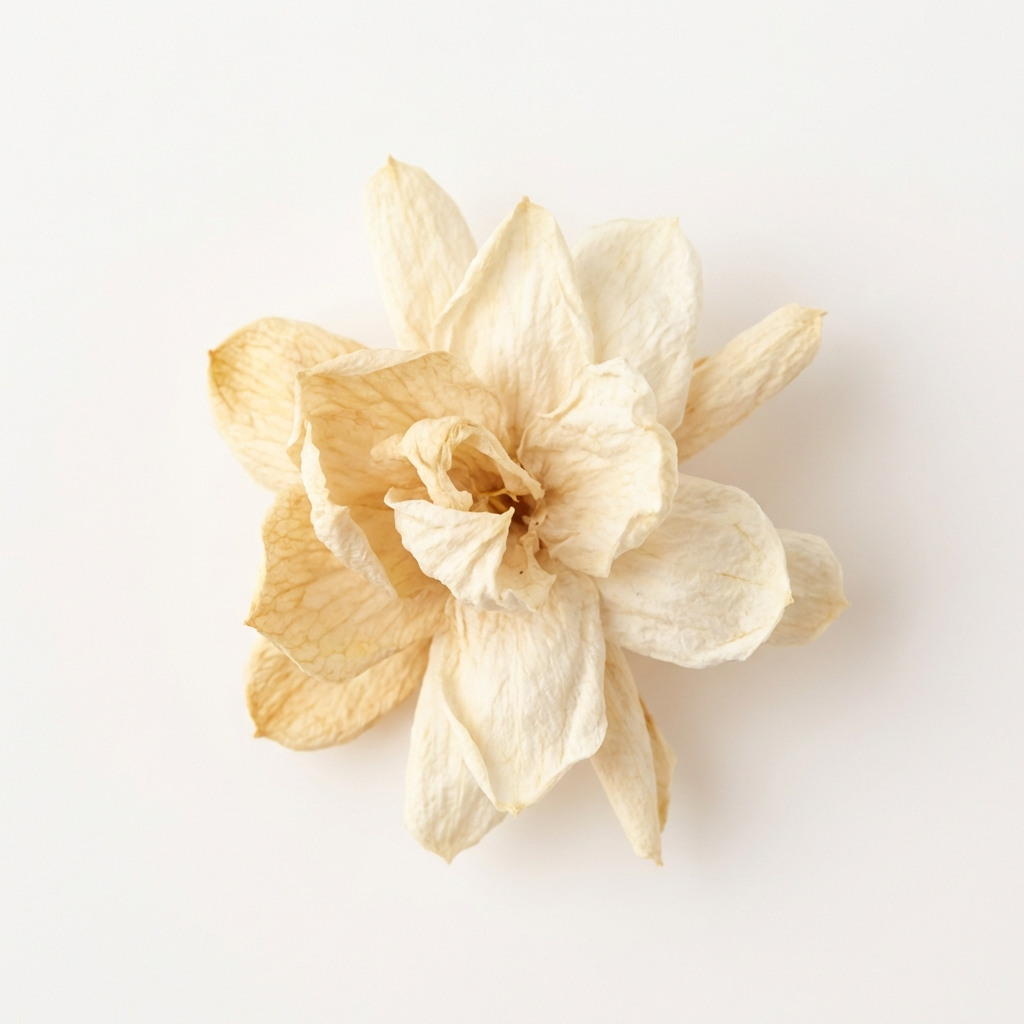
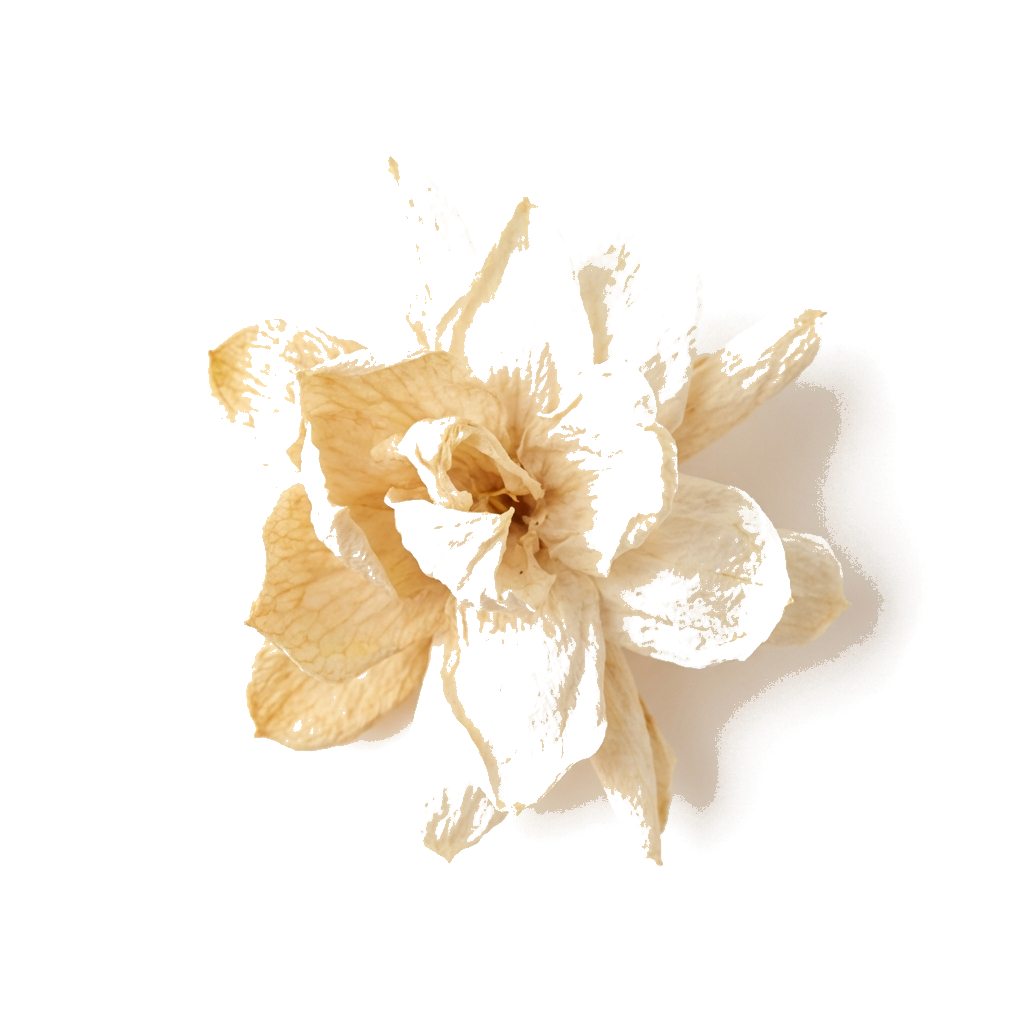
Hero: remove white background from flower PNGs, transparent petals

Changed region(s): [[0.1875, 0.1562, 1.0, 0.9375], [0.2188, 0.625, 0.2812, 0.6875]]

diff --git a/site/posts/yadon-ke-pannon-se.html b/site/posts/yadon-ke-pannon-se.html
@@ -1,6 +1,6 @@
 <!DOCTYPE html> <html lang="hi"> <head>   <meta charset="UTF-8">   <meta name="viewport" content="width=device-width, initial-scale=1.0">   <title>यादों के झरोखों से — गीतांजलि सक्सेना | हिंदी संस्मरण</title>   <meta name="description" content="यादों के झरोखों से — पिताजी की अनमोल विरासत और परिवार की यादें। गीतांजलि सक्सेना का भावपूर्ण हिंदी संस्मरण। Family tribute in Hindi.">   <link rel="preconnect" href="https://fonts.googleapis.com">   <link rel="preconnect" href="https://fonts.gstatic.com" crossorigin>   <link href="https://fonts.googleapis.com/css2?family=Tiro+Devanagari+Hindi:ital@0;1&family=Noto+Sans+Devanagari:wght@300;400;600&family=Cormorant+Garamond:ital,wght@0,400;0,600;1,400&display=swap" rel="stylesheet">   <style> *{margin:0;padding:0;box-sizing:border-box} :root{   --cream:#F7F2EA;--warm-white:#FDFAF5;--ink:#1C1410;   --red:#9B0E0E;--red-deep:#6B0A0A;--gold:#B8873A;   --gold-light:#D4A852;--dust:#8A7968;--petal:#F2E8DE; } html{scroll-behavior:smooth} body{font-family:'Noto Sans Devanagari',sans-serif;background:var(--warm-white);color:var(--ink);overflow-x:hidden}  /* NO letter-spacing on Devanagari - ever */ *[lang="hi"],.post-title,.post-cat,.post-meta,.nav-links a, .pline,.poem-author,.drop-cap-para,.prose-text,.pull-quote-text, .tag-item,.rel-title,.rel-cat,.author-name,.author-bio-text, .fcol ul a,.fbrand-text,.fs-label,.fs-input,.breadcrumb a, .breadcrumb span,.share-label,.pnav-title,.pnav-cat,.pnav-dir, .ctl-text,.pm-author-name,.pm-date,.pf-author,.pf-place, .sidebar-label,.abio-name,.abio-text,.abio-name-en, .author-bio-text,.author-name { letter-spacing:0 !important; }  /* NAV */ #mainNav{position:fixed;top:0;left:0;right:0;z-index:100;padding:18px 60px;display:flex;align-items:center;justify-content:space-between;transition:all 0.3s;background:transparent} #mainNav.scrolled{background:rgba(253,250,245,0.97);backdrop-filter:blur(10px);box-shadow:0 1px 20px rgba(0,0,0,0.06)} #mainNav.scrolled .nav-links a{color:var(--ink)} #mainNav.scrolled .nav-logo img{filter:none} .nav-logo{text-decoration:none;display:flex;align-items:center} .nav-logo img{height:52px;width:auto;filter:brightness(0) invert(1) drop-shadow(0 1px 6px rgba(0,0,0,0.4));transition:filter 0.3s} .nav-links{display:flex;gap:32px;list-style:none;align-items:center} .nav-links a{font-family:'Noto Sans Devanagari',sans-serif;font-size:14px;color:rgba(255,255,255,0.88);text-decoration:none;font-weight:400;transition:color 0.2s;text-shadow:0 1px 8px rgba(0,0,0,0.3)} .nav-links a:hover{color:var(--gold-light)} .nav-cta{background:var(--red)!important;color:white!important;padding:10px 22px;text-shadow:none!important;display:inline-flex;flex-direction:column;align-items:center;white-space:nowrap;line-height:1.2;min-width:0} .nav-cta:hover{background:var(--red-deep)!important;color:white!important}  /* POST HERO */ .post-hero{min-height:88vh;position:relative;overflow:hidden;display:flex;align-items:stretch;padding:0} .ph-bg{position:absolute;inset:0;background:linear-gradient(155deg,#0D1018 0%,#1A1A2A 40%,#120808 100%)} .ph-texture{position:absolute;inset:0;background:radial-gradient(ellipse 700px 600px at 30% 50%,rgba(184,135,58,0.18) 0%,transparent 60%),radial-gradient(ellipse 400px 300px at 80% 20%,rgba(155,14,14,0.08) 0%,transparent 60%);pointer-events:none} .ph-img{display:none} .ph-right{position:absolute;z-index:3;right:auto;left:50%;top:50%;transform:translateY(-50%);width:520px;display:flex;flex-direction:column;justify-content:center;align-items:center;gap:0}.ph-single-img{width:100%;border-radius:14px;overflow:hidden;box-shadow:0 28px 80px rgba(0,0,0,0.65);border:1px solid rgba(255,255,255,0.15);position:relative;animation:floatImg 6s ease-in-out infinite}.ph-single-img img{width:100%;height:680px;object-fit:cover;object-position:center;display:block;filter:brightness(0.92)}.ph-img-quote{position:absolute;bottom:0;left:0;right:0;padding:28px 24px;background:linear-gradient(to top,rgba(0,0,0,0.82) 0%,rgba(0,0,0,0.4) 60%,transparent 100%)}.ph-img-quote-text{font-family:"Tiro Devanagari Hindi",serif;font-size:17px;color:rgba(255,255,255,0.88);line-height:1.8;display:block;margin-bottom:8px}.ph-img-quote-attr{font-family:"Cormorant Garamond",serif;font-size:13px;color:rgba(184,135,58,0.85);font-style:italic;display:block}.ph-hero-quote{width:100%;border-left:3px solid rgba(184,135,58,0.5);padding:16px 20px;background:rgba(255,255,255,0.04);backdrop-filter:blur(4px);border-radius:0 6px 6px 0}.ph-hero-quote-text{font-family:"Tiro Devanagari Hindi",serif;font-size:18px;color:rgba(255,255,255,0.75);line-height:1.8;font-style:normal}.ph-hero-quote-attr{font-family:"Cormorant Garamond",serif;font-size:13px;color:rgba(184,135,58,0.7);font-style:italic;margin-top:10px;display:block}.ph-art{position:absolute;right:-20px;bottom:-40px;font-family:'Tiro Devanagari Hindi',serif;font-size:480px;color:rgba(255,255,255,0.06);line-height:1;pointer-events:none;user-select:none;z-index:1}.ph-deco{position:absolute;font-family:'Tiro Devanagari Hindi',serif;color:rgba(255,255,255,0.04);pointer-events:none;user-select:none;z-index:1;line-height:1} .ph-content{position:relative;z-index:3;flex:1;padding:80px 32px 80px 72px;display:flex;flex-direction:column;justify-content:center;max-width:50%;align-items:flex-start} .post-cat{display:inline-flex;align-items:center;gap:8px;background:var(--gold);color:white;font-size:13px;padding:6px 16px;font-family:'Noto Sans Devanagari',sans-serif;font-weight:600;margin-bottom:24px;align-self:flex-start;width:auto} .post-cat::before{content:'·';font-size:14px;opacity:0.7} .post-title{font-family:'Tiro Devanagari Hindi',serif;font-size:80px;color:white;line-height:1.1;font-weight:400;margin-bottom:16px;align-self:flex-start} .post-subtitle{font-family:'Cormorant Garamond',serif;font-size:22px;color:rgba(255,255,255,0.55);font-style:italic;margin-bottom:36px;align-items:center;gap:24px;flex-wrap:wrap}.ph-tagline{font-family:'Cormorant Garamond',serif;font-size:22px;color:rgba(255,255,255,0.55);font-style:italic;margin-bottom:28px;display:block} .pm-author{display:flex;align-items:center;gap:12px} .pm-author img{width:40px;height:40px;border-radius:50%;object-fit:cover;object-position:top;filter:sepia(10%);border:1px solid rgba(255,255,255,0.2)} .pm-author-name{font-family:'Noto Sans Devanagari',sans-serif;font-size:15px;color:rgba(255,255,255,0.75);font-weight:700} .pm-sep{width:4px;height:4px;border-radius:50%;background:rgba(255,255,255,0.2)} .pm-date{font-family:'Cormorant Garamond',serif;font-size:16px;color:rgba(255,255,255,0.4);font-style:italic} .pm-read{font-family:'Cormorant Garamond',serif;font-size:14px;color:rgba(255,255,255,0.35);font-style:italic}  /* BREADCRUMB */ .breadcrumb{background:var(--cream);padding:14px 80px;border-bottom:1px solid rgba(0,0,0,0.05);display:flex;align-items:center;gap:8px} .breadcrumb a,.breadcrumb span{font-family:'Noto Sans Devanagari',sans-serif;font-size:13px;color:#1C1410;text-decoration:none} .breadcrumb a:hover{color:var(--red)} .breadcrumb .sep{color:var(--dust);opacity:0.4;font-size:11px} .breadcrumb .current{color:#1C1410;font-weight:500}  /* MAIN LAYOUT */ .post-layout{display:grid;grid-template-columns:1fr 300px;gap:0;max-width:1200px;margin:0 auto;padding:0;align-items:start}  /* POEM CONTENT */ .post-content{padding:80px 80px 80px 80px;border-right:1px solid rgba(0,0,0,0.05)}  /* Poem type label */ .content-type-label{display:flex;align-items:center;gap:14px;margin-bottom:56px} .ctl-line{width:32px;height:1px;background:var(--gold)} .ctl-text{font-family:'Noto Sans Devanagari',sans-serif;font-size:13px;color:var(--gold);font-weight:500}  /* POEM BODY */ .poem-body{margin-bottom:64px} .stanza{margin-bottom:48px} .pline{font-family:'Tiro Devanagari Hindi',serif;color:var(--ink);line-height:1.65;display:block;transition:color 0.15s} .pline:hover{color:var(--red)} .pline.xl{font-size:52px} .pline.lg{font-size:38px;padding-left:32px;opacity:0.88} .pline.md{font-size:28px;padding-left:64px;opacity:0.75} .pline.sm{font-size:22px;padding-left:16px;opacity:0.65} .pline.xs{font-size:18px;padding-left:80px;opacity:0.58} .pindent{height:8px;display:block}  /* Prose type (for lekh/sansmaran) */ .prose-body{max-width:640px} .drop-cap-para::first-letter{font-family:'Tiro Devanagari Hindi',serif;font-size:80px;line-height:0.7;float:left;margin:12px 12px 0 0;color:var(--red)} .prose-text{font-family:'Noto Sans Devanagari',sans-serif;font-size:19px;line-height:2.3;color:var(--ink);font-weight:300;margin-bottom:32px} .prose-text strong{font-weight:600}  /* In-article pull quote */ .inline-pull{border-left:3px solid var(--gold);padding:20px 28px;margin:44px 0;background:var(--petal)} .pull-quote-text{font-family:'Tiro Devanagari Hindi',serif;font-size:26px;color:var(--ink);line-height:1.7}  /* POEM FOOTER */ .poem-footer{display:flex;align-items:center;gap:20px;padding-top:40px;border-top:1px solid rgba(0,0,0,0.06)} .pf-dash{width:28px;height:1px;background:var(--gold);opacity:0.6;flex-shrink:0} .pf-author{font-family:'Cormorant Garamond',serif;font-size:19px;color:#1C1410;font-style:italic} .pf-place{font-family:'Cormorant Garamond',serif;font-size:16px;color:#1C1410;opacity:0.6;font-style:italic} .pf-dot{color:var(--dust);opacity:0.3}  /* TAGS */ .post-tags{margin-top:48px;padding-top:32px;border-top:1px solid rgba(0,0,0,0.05)} .tags-label{font-family:'Noto Sans Devanagari',sans-serif;font-size:13px;color:var(--dust);font-weight:500;margin-bottom:16px} .tags-list{display:flex;flex-wrap:wrap;gap:8px} .tag-item{background:var(--cream);border:1px solid rgba(0,0,0,0.08);color:#1C1410;font-size:13px;padding:6px 16px;font-family:'Noto Sans Devanagari',sans-serif;text-decoration:none;transition:all 0.2s} .tag-item:hover{background:var(--red);color:white;border-color:var(--red)}  /* SHARE */ .post-share{margin-top:40px;padding-top:32px;border-top:1px solid rgba(0,0,0,0.05);display:flex;align-items:center;gap:20px} .share-label{font-family:'Noto Sans Devanagari',sans-serif;font-size:14px;color:#1C1410;font-weight:400} .share-btns{display:flex;gap:10px} .share-btn{width:38px;height:38px;border:1px solid rgba(0,0,0,0.1);display:flex;align-items:center;justify-content:center;color:var(--dust);font-size:15px;text-decoration:none;transition:all 0.2s;cursor:pointer;background:none;font-style:normal} .share-btn:hover{background:var(--red);border-color:var(--red);color:white}  /* PREV / NEXT */ .post-nav{display:grid;grid-template-columns:1fr 1fr;border-top:1px solid rgba(0,0,0,0.06);border-bottom:1px solid rgba(0,0,0,0.06);margin-top:64px;position:relative;z-index:1} .pnav-item{padding:36px 44px;text-decoration:none;display:flex;flex-direction:column;gap:8px;transition:background 0.2s;background:var(--warm-white)} .pnav-item:hover{background:var(--cream)} .pnav-item.next{border-left:1px solid rgba(0,0,0,0.06);text-align:right;align-items:flex-end} .pnav-dir{font-family:'Noto Sans Devanagari',sans-serif;font-size:12px;color:var(--gold);font-weight:500} .pnav-title{font-family:'Tiro Devanagari Hindi',serif;font-size:20px;color:var(--ink);line-height:1.3;font-weight:400} .pnav-cat{font-size:12px;color:var(--dust);font-family:'Noto Sans Devanagari',sans-serif}  /* SIDEBAR */ .post-sidebar{padding:80px 40px 80px 40px;position:sticky;top:88px;align-self:start;border-left:1px solid rgba(0,0,0,0.05);max-height:calc(100vh - 100px);overflow-y:auto;overflow-x:hidden} .sidebar-section{margin-bottom:52px} .sidebar-label{font-family:'Noto Sans Devanagari',sans-serif;font-size:13px;color:var(--gold);font-weight:600;margin-bottom:20px;display:flex;align-items:center;gap:10px} .sidebar-label::after{content:'';flex:1;height:1px;background:rgba(0,0,0,0.06)}  /* Progress */ .reading-progress{position:fixed;top:0;left:0;height:3px;background:linear-gradient(to right,var(--red),var(--gold));z-index:200;transition:width 0.1s linear;width:0%}  /* Author card sidebar */ .author-card{background:var(--cream);padding:28px;border:1px solid rgba(0,0,0,0.05)} .author-card img{width:64px;height:64px;border-radius:50%;object-fit:cover;object-position:top;margin-bottom:14px;filter:sepia(10%)} .author-name{font-family:'Tiro Devanagari Hindi',serif;font-size:22px;color:var(--ink);margin-bottom:6px} .author-bio-text{font-family:'Noto Sans Devanagari',sans-serif;font-size:14px;color:var(--dust);line-height:1.9;font-weight:300;margin-bottom:16px} .author-link{font-family:'Noto Sans Devanagari',sans-serif;font-size:13px;color:var(--red);text-decoration:none;border-bottom:1px solid rgba(155,14,14,0.25);padding-bottom:2px} .author-link:hover{border-color:var(--red)}  /* Related posts */ .rel-post{display:flex;gap:14px;margin-bottom:22px;text-decoration:none;align-items:flex-start;padding-bottom:22px;border-bottom:1px solid rgba(0,0,0,0.05)} .rel-post:last-child{border-bottom:none;margin-bottom:0;padding-bottom:0} .rel-img{width:68px;height:68px;flex-shrink:0;background-size:cover;background-position:center;overflow:hidden} .rel-info .rel-cat{font-size:11px;color:var(--gold);font-family:'Noto Sans Devanagari',sans-serif;font-weight:600;margin-bottom:4px} .rel-info .rel-title{font-family:'Tiro Devanagari Hindi',serif;font-size:17px;color:var(--ink);line-height:1.3;font-weight:400;transition:color 0.2s} .rel-post:hover .rel-title{color:var(--red)} .rel-info .rel-date{font-size:12px;color:var(--dust);font-family:monospace;margin-top:5px}  /* Table of contents (for prose) */ .toc-list{list-style:none;display:flex;flex-direction:column;gap:10px} .toc-list a{font-family:'Noto Sans Devanagari',sans-serif;font-size:14px;color:var(--dust);text-decoration:none;display:flex;align-items:center;gap:8px;transition:color 0.2s;line-height:1.5} .toc-list a::before{content:'';width:6px;height:6px;border-radius:50%;background:var(--gold);opacity:0.5;flex-shrink:0} .toc-list a:hover{color:var(--red)}  /* AUTHOR BIO SECTION (bottom) */ .author-bio-section{background:var(--cream);border-top:1px solid rgba(0,0,0,0.06)} .author-bio-inner{max-width:1200px;margin:0 auto;padding:72px 80px;display:grid;grid-template-columns:140px 1fr;gap:48px;align-items:start} .author-bio-photo{width:140px;height:140px;border-radius:50%;object-fit:cover;object-position:top;filter:sepia(10%)} .author-bio-content .abio-label{font-family:'Noto Sans Devanagari',sans-serif;font-size:13px;color:var(--gold);font-weight:600;margin-bottom:14px} .author-bio-content .abio-name{font-family:'Tiro Devanagari Hindi',serif;font-size:38px;color:var(--ink);margin-bottom:6px} .author-bio-content .abio-name-en{font-family:'Cormorant Garamond',serif;font-size:17px;color:var(--dust);font-style:italic;margin-bottom:22px} .author-bio-content .abio-text{font-family:'Noto Sans Devanagari',sans-serif;font-size:17px;color:#1C1410;line-height:2.1;font-weight:300;max-width:560px;margin-bottom:24px} .abio-cta{display:inline-flex;align-items:center;gap:8px;color:var(--red);font-size:14px;text-decoration:none;font-family:'Noto Sans Devanagari',sans-serif;border-bottom:1px solid rgba(155,14,14,0.3);padding-bottom:2px} .abio-cta:hover{border-color:var(--red)}  /* FOOTER */ footer{background:var(--ink)} .footer-sub-strip{border-top:1px solid rgba(255,255,255,0.05);border-bottom:1px solid rgba(255,255,255,0.05);padding:28px 60px;display:flex;align-items:center;justify-content:center;gap:16px;flex-wrap:wrap} .fs-label{font-size:16px;color:rgba(255,255,255,0.4);font-family:'Cormorant Garamond',serif;font-style:italic} .fs-input{background:transparent;border:none;border-bottom:1px solid rgba(255,255,255,0.18);color:white;padding:10px 0;font-size:16px;outline:none;width:280px;font-family:'Noto Sans Devanagari',sans-serif;transition:border-color 0.2s} .fs-input::placeholder{color:rgba(255,255,255,0.25);font-size:15px} .fs-input:focus{border-color:var(--gold)} .fs-btn{background:transparent;border:1px solid rgba(255,255,255,0.18);color:rgba(255,255,255,0.7);padding:10px 24px;font-size:14px;cursor:pointer;font-family:'Noto Sans Devanagari',sans-serif;transition:all 0.2s} .fs-btn:hover{background:var(--gold);border-color:var(--gold);color:white} .footer-main{display:grid;grid-template-columns:2fr 1fr 1fr 1fr;padding:72px 60px;border-bottom:1px solid rgba(255,255,255,0.04)} .fbrand{padding-right:52px} .fbrand-logo img{height:56px;width:auto;filter:brightness(0) invert(1);opacity:0.85;margin-bottom:20px} .fbrand-text{font-family:'Noto Sans Devanagari',sans-serif;font-size:16px;color:rgba(255,255,255,0.35);line-height:2;margin-bottom:28px;font-weight:300} .fsocials{display:flex;gap:10px} .fsoc{width:36px;height:36px;border:1px solid rgba(255,255,255,0.1);display:flex;align-items:center;justify-content:center;color:rgba(255,255,255,0.38);font-size:14px;text-decoration:none;transition:all 0.2s;font-style:normal} .fsoc:hover{border-color:var(--gold);color:var(--gold)} .fcol{border-left:1px solid rgba(255,255,255,0.04);padding:0 20px} .fcol-label{font-size:13px;color:var(--gold);font-family:'Noto Sans Devanagari',sans-serif;font-weight:600;margin-bottom:22px} .fcol ul{list-style:none} .fcol ul li{margin-bottom:12px} .fcol ul a{font-family:'Noto Sans Devanagari',sans-serif;font-size:16px;color:rgba(255,255,255,0.35);text-decoration:none;transition:color 0.2s} .fcol ul a:hover{color:white} .footer-bottom{padding:22px 60px;display:flex;align-items:center;justify-content:space-between} .fbcopy{font-size:10px;color:rgba(255,255,255,0.13);font-family:monospace;letter-spacing:1px} .fblinks{display:flex;gap:20px} .fblinks a{font-size:10px;color:rgba(255,255,255,0.13);text-decoration:none;letter-spacing:1.5px;font-family:monospace;transition:color 0.2s} .fblinks a:hover{color:rgba(255,255,255,0.45)}  .nav-hamburger{display:none} .nav-overlay{display:none} @media(max-width:900px){ .nav-hamburger{display:flex;flex-direction:column;gap:5px;cursor:pointer;z-index:101;background:none;border:none;padding:8px} .nav-hamburger span{display:block;width:24px;height:2px;background:white;transition:all 0.3s} .nav-hamburger.active span:nth-child(1){transform:rotate(45deg) translate(5px,5px)} .nav-hamburger.active span:nth-child(2){opacity:0} .nav-hamburger.active span:nth-child(3){transform:rotate(-45deg) translate(5px,-5px)} nav.scrolled .nav-hamburger span{background:var(--ink,#1C1410)} .nav-links{display:none;position:fixed;top:0;right:0;width:280px;height:100vh;background:rgba(28,20,16,0.97);backdrop-filter:blur(12px);flex-direction:column;padding:80px 32px 32px;gap:8px;z-index:100} .nav-links.open{display:flex} .nav-links a{color:white!important;font-size:16px!important;text-shadow:none!important;padding:12px 0;border-bottom:1px solid rgba(255,255,255,0.08)} .nav-links a:last-child{border-bottom:none} .nav-links .nav-cta{margin-top:16px;text-align:center} .nav-overlay{display:none;position:fixed;inset:0;background:rgba(0,0,0,0.5);z-index:99} .nav-overlay.open{display:block} .hide-sm{display:block}   #mainNav{padding:16px 24px}   .nav-links{gap:16px}   .nav-links .nav-cta{display:none}   .footer-main{grid-template-columns:1fr 1fr;padding:40px 24px;gap:32px}   .footer-sub-strip,.footer-bottom{padding:16px 24px}   .fbrand{grid-column:1/-1}  .ph-content{padding:0 24px 56px!important;max-width:100%}   .post-title{font-size:40px!important}   .breadcrumb{padding:12px 24px}   .post-intro,.post-header-wrap{padding:40px 24px 0}   .post-body,.post-inner,.prose-wrap,.post-content{padding:40px 24px!important}   .post-section{padding:0 24px 48px!important}   .post-inner{grid-template-columns:1fr!important}   .post-aside,.sidebar,.side-col{display:none}   .post-nav{margin:0 24px!important}   .abio{flex-direction:column!important;padding:32px 24px!important}   .abio-img{width:100%!important;max-width:200px}   .xl{font-size:34px!important}.lg{font-size:24px!important}   .pull-quote,.pq-text{font-size:24px!important}   .poem-lines{padding:24px!important} } @media(max-width:600px){   .footer-main{grid-template-columns:1fr!important;padding:32px 20px}   .post-title{font-size:30px!important}   .xl{font-size:26px!important}.lg{font-size:20px!important}   .pull-quote,.pq-text{font-size:20px!important} }  /* ── POEM DISPLAY ─────────────────────────────────────────── */ .poem-display{padding-bottom:48px} .poem-title-sm{font-family:'Cormorant Garamond',serif;font-size:15px;color:var(--dust);font-style:italic;margin-bottom:28px;display:block}  /* Override prose-text when used on poem lines — remove the 32px gap */ .prose-text.pline{   font-family:'Tiro Devanagari Hindi',serif!important;   font-size:22px!important;   line-height:1.72!important;   margin-bottom:2px!important;   font-weight:400!important;   display:block; } /* Size modifiers */ .pline.xl,.prose-text.pline.xl{font-size:32px!important;line-height:1.4!important} .pline.lg,.prose-text.pline.lg{font-size:26px!important} .pline.md,.prose-text.pline.md{font-size:22px!important} .pline.sm,.prose-text.pline.sm{font-size:18px!important;opacity:0.82} .pline.indent,.prose-text.pline.indent{padding-left:2.2em}  /* Stanza gap */ .pgap{display:block;height:26px!important;margin:0!important;padding:0!important}  /* Poem attribution */ .poem-attr{display:flex;align-items:center;gap:16px;margin-top:44px;padding-top:22px;border-top:1px solid rgba(0,0,0,0.07)} .pattr-line{width:26px;height:1px;background:var(--gold);opacity:0.55;flex-shrink:0} .pattr-text{font-family:'Cormorant Garamond',serif;font-size:16px;color:var(--dust);font-style:italic} .pread{font-family:'Noto Sans Devanagari',sans-serif;font-size:13px;color:var(--red);text-decoration:none;margin-left:auto;font-weight:500}  /* ── PROSE BODY ────────────────────────────────────────────── */ .prose-body{padding-bottom:40px} .prose-body p.prose-text{margin-bottom:26px!important;font-size:18px!important;line-height:2.1!important} .prose-body p.prose-text:last-child{margin-bottom:0} .prose-body h3.prose-text{font-family:'Noto Sans Devanagari',sans-serif!important;font-size:18px!important;font-weight:600!important;margin-top:28px!important;margin-bottom:10px!important;line-height:1.5!important} .prose-body ul{padding-left:18px;margin-bottom:20px} .prose-body ul li{font-family:'Noto Sans Devanagari',sans-serif;font-size:17px;color:var(--ink);line-height:2;font-weight:300;margin-bottom:4px} .prose-body strong{font-weight:600;color:var(--ink)}  /* ── TAGS & SHARE ──────────────────────────────────────────── */ .tags-wrap{display:flex;align-items:center;gap:8px;flex-wrap:wrap;margin-top:44px;padding-top:24px;border-top:1px solid rgba(0,0,0,0.06)} .tags-label{font-family:'Noto Sans Devanagari',sans-serif;font-size:13px;color:var(--dust);font-weight:400;white-space:nowrap} .tag-item:hover{background:var(--petal);color:var(--ink)}  .share-bar{display:flex;align-items:center;gap:12px;margin-top:16px} .share-label{font-family:'Noto Sans Devanagari',sans-serif;font-size:13px;color:#1C1410} .share-btn{display:inline-flex;align-items:center;gap:8px;background:var(--red);color:white!important;font-size:13px;padding:9px 20px;font-family:'Noto Sans Devanagari',sans-serif;font-weight:500;text-decoration:none;transition:background 0.2s} .share-btn:hover{background:var(--red-deep)}  /* ── POST NAV ──────────────────────────────────────────────── */ .pnav-item{padding:26px 32px;display:flex;flex-direction:column;gap:5px;text-decoration:none;transition:background 0.2s} .pnav-item:hover{background:var(--cream)} .pnav-dir{font-size:11px;color:var(--gold);font-family:monospace;text-transform:uppercase;font-weight:600} .pnav-cat{font-size:12px;color:var(--dust);font-family:'Noto Sans Devanagari',sans-serif} .pnav-title{font-family:'Tiro Devanagari Hindi',serif;font-size:18px;color:var(--ink);line-height:1.35} .pnav-prev{border-right:1px solid rgba(0,0,0,0.05);text-align:left} .pnav-next{text-align:right}  /* ── ARTICLE BTN ───────────────────────────────────────────── */ .article-btn{display:inline-flex;align-items:center;gap:8px;background:var(--red);color:white;font-size:14px;padding:12px 22px;font-family:'Noto Sans Devanagari',sans-serif;font-weight:500;text-decoration:none;margin-top:16px;transition:background 0.2s} .article-btn:hover{background:var(--red-deep)}  /* ── MOBILE ─────────────────────────────────────────────────── */ @media(max-width:900px){   .post-layout{grid-template-columns:1fr!important}   .post-content{padding:40px 24px!important;border-right:none!important}   .post-sidebar{padding:32px 24px!important;position:static!important;max-height:none!important;border-left:none!important;border-top:1px solid rgba(0,0,0,0.07)}   .post-title{font-size:40px!important}   .ph-content{padding:40px 24px 60px!important}.ph-right{display:none!important}   .breadcrumb{padding:12px 24px}   #mainNav{padding:14px 24px} } @media(max-width:600px){   .post-content{padding:28px 20px!important}   .post-title{font-size:30px!important}   .pline.xl,.prose-text.pline.xl{font-size:22px!important}   .pline.lg,.prose-text.pline.lg{font-size:19px!important}   .post-nav{grid-template-columns:1fr!important}   .pnav-prev{border-right:none!important;border-bottom:1px solid rgba(0,0,0,0.05)}   .pnav-item{padding:20px} }  /* PDF MODAL */ .pdf-modal-overlay{position:fixed;inset:0;background:rgba(0,0,0,0);z-index:9999;display:flex;flex-direction:column;pointer-events:none;transition:background .3s} .pdf-modal-overlay.open{background:rgba(0,0,0,.88);pointer-events:all} .pdf-modal-bar{background:#1C1410;padding:0 24px;height:56px;display:flex;align-items:center;justify-content:space-between;flex-shrink:0;transform:translateY(-100%);transition:transform .35s cubic-bezier(.4,0,.2,1);border-bottom:1px solid rgba(255,255,255,.08)} .pdf-modal-overlay.open .pdf-modal-bar{transform:translateY(0)} .pdf-modal-title{font-family:'Tiro Devanagari Hindi',serif;font-size:17px;color:white;font-weight:400;letter-spacing:0!important;flex:1;overflow:hidden;text-overflow:ellipsis;white-space:nowrap;padding-right:20px} .pdf-modal-actions{display:flex;align-items:center;gap:8px;flex-shrink:0} .pdf-modal-download{display:inline-flex;align-items:center;gap:6px;padding:8px 16px;background:rgba(255,255,255,.08);color:rgba(255,255,255,.7);font-family:monospace;font-size:11px;letter-spacing:1px;text-decoration:none;border:1px solid rgba(255,255,255,.12);transition:background .2s} .pdf-modal-download:hover{background:rgba(255,255,255,.15);color:white} .pdf-modal-close{width:40px;height:40px;background:rgba(255,255,255,.06);border:none;color:rgba(255,255,255,.6);font-size:20px;cursor:pointer;display:flex;align-items:center;justify-content:center;transition:all .2s} .pdf-modal-close:hover{background:#9B0E0E;color:white} .pdf-modal-frame-wrap{flex:1;position:relative;transform:translateY(20px);opacity:0;transition:all .35s cubic-bezier(.4,0,.2,1) .1s} .pdf-modal-overlay.open .pdf-modal-frame-wrap{transform:translateY(0);opacity:1} .pdf-modal-frame{width:100%;height:100%;border:none;display:block;background:#F7F2EA} .pdf-modal-loading{position:absolute;inset:0;display:flex;flex-direction:column;align-items:center;justify-content:center;background:#1C1410;gap:16px;transition:opacity .3s} .pdf-loading-spinner{width:40px;height:40px;border:2px solid rgba(255,255,255,.1);border-top-color:rgba(184,135,58,.7);border-radius:50%;animation:pdfspin .8s linear infinite} @keyframes pdfspin{to{transform:rotate(360deg)}} .pdf-loading-text{font-family:monospace;font-size:11px;color:rgba(255,255,255,.3);letter-spacing:2px}  /* TRIBUTE SECTION — yadon-ke-pannon-se */ .tribute-section{padding:60px 80px 80px;max-width:1200px;margin:0 auto} .tribute-intro{font-family:'Noto Sans Devanagari',sans-serif;font-size:18px;color:var(--ink);line-height:2.1;font-weight:600;margin-bottom:48px;max-width:700px} .tribute-grid{display:grid;grid-template-columns:repeat(3,1fr);gap:16px} .tribute-card{display:block;padding:24px 28px;background:white;border:1px solid rgba(0,0,0,0.07);border-left:4px solid var(--gold);text-decoration:none;transition:all 0.25s} .tribute-card:hover{transform:translateY(-2px);box-shadow:0 8px 28px rgba(0,0,0,0.08);background:var(--petal)} .tribute-card:hover .tribute-card-cta{color:var(--red);opacity:1} .tribute-card-title{font-family:'Tiro Devanagari Hindi',serif;font-size:19px;font-weight:400;color:var(--ink);margin-bottom:6px;line-height:1.4} .tribute-card-desc{font-family:'Noto Sans Devanagari',sans-serif;font-size:13px;color:var(--dust);margin-bottom:16px} .tribute-card-cta{font-family:'Cormorant Garamond',serif;font-size:16px;color:var(--dust);opacity:0.6;font-style:italic;transition:all 0.2s} @media(max-width:900px){   .tribute-section{padding:40px 24px 60px}   .tribute-grid{grid-template-columns:1fr 1fr} } @media(max-width:600px){   .tribute-grid{grid-template-columns:1fr}   .tribute-card{padding:18px 20px} }  /* READ MORE SECTION */ .rm-section{padding:64px 80px 48px;background:var(--cream);border-top:1px solid rgba(0,0,0,0.05)} .rm-header{display:flex;align-items:center;gap:20px;margin-bottom:40px} .rm-line{flex:1;height:1px;background:rgba(0,0,0,0.08)} .rm-label{font-family:'Noto Sans Devanagari',sans-serif;font-size:13px;color:var(--gold);font-weight:600;white-space:nowrap;text-transform:uppercase} .rm-grid{display:grid;grid-template-columns:repeat(3,1fr);gap:20px;margin-bottom:36px} .rm-card{position:relative;overflow:hidden;min-height:200px;display:flex;flex-direction:column;justify-content:flex-end;text-decoration:none;transition:transform 0.25s} .rm-card:hover{transform:translateY(-4px)} .rm-card-bg{position:absolute;inset:0;background-size:cover;background-position:center} .rm-card-overlay{position:absolute;inset:0;background:linear-gradient(to top,rgba(0,0,0,0.82) 0%,rgba(0,0,0,0.2) 60%,transparent 100%)} .rm-card-art{position:absolute;right:-8px;top:-8px;font-family:'Tiro Devanagari Hindi',serif;font-size:100px;color:rgba(255,255,255,0.07);line-height:1;pointer-events:none} .rm-card-inner{position:relative;z-index:2;padding:20px 22px} .rm-card-cat{display:inline-block;font-family:'Noto Sans Devanagari',sans-serif;font-size:11px;font-weight:600;color:var(--gold-light);margin-bottom:8px;text-transform:uppercase} .rm-card-title{font-family:'Tiro Devanagari Hindi',serif;font-size:20px;color:white;line-height:1.3;font-weight:400;margin-bottom:8px} .rm-card-excerpt{font-family:'Noto Sans Devanagari',sans-serif;font-size:12px;color:rgba(255,255,255,0.6);line-height:1.6;display:-webkit-box;-webkit-line-clamp:2;-webkit-box-orient:vertical;overflow:hidden} .rm-footer{text-align:center} .rm-all-link{font-family:'Noto Sans Devanagari',sans-serif;font-size:14px;color:var(--red);text-decoration:none;border-bottom:1px solid currentColor;padding-bottom:2px;transition:opacity 0.2s} .rm-all-link:hover{opacity:0.7} @media(max-width:900px){   .rm-section{padding:48px 24px 36px}   .rm-grid{grid-template-columns:1fr 1fr;gap:14px} } @media(max-width:600px){   .rm-grid{grid-template-columns:1fr}   .rm-card{min-height:160px} }  .nav-en{font-size:9px;display:block;color:rgba(26,16,8,0.3);font-family:monospace;letter-spacing:1px;text-transform:uppercase;line-height:1;margin-top:1px} .nav-links a:hover .nav-en{color:var(--red)}  .en-essence{border-left:2px solid var(--gold);padding:16px 20px;margin-bottom:36px;background:rgba(201,168,76,0.05)} .en-essence-label{font-family:monospace;font-size:9px;letter-spacing:2px;text-transform:uppercase;color:var(--gold);display:block;margin-bottom:8px} .en-essence-text{font-family:'Cormorant Garamond',serif;font-size:18px;color:#1C1410;line-height:1.8;font-style:italic;margin:0;letter-spacing:0;font-weight:700} @keyframes floatImg{0%,100%{transform:translateY(0px) rotate(-0.5deg)}50%{transform:translateY(-12px) rotate(0.5deg)}}@keyframes floatLetter{0%,100%{transform:translateY(0px) rotate(-1deg)}50%{transform:translateY(-8px) rotate(1deg)}}
 .ph-petals{position:absolute;inset:0;z-index:2;pointer-events:none;overflow:hidden}
-.petal{position:absolute;opacity:0;animation:petalFloat linear infinite;pointer-events:none;mix-blend-mode:screen}.petal img{width:100%;height:100%;object-fit:contain;display:block;filter:brightness(1.1) contrast(0.9)}
+.petal{position:absolute;opacity:0;animation:petalFloat linear infinite;pointer-events:none}.petal img{width:100%;height:100%;object-fit:contain;display:block}
 @keyframes petalFloat{0%{transform:translateY(110vh) rotate(0deg) translateX(0px);opacity:0}5%{opacity:0.9}50%{transform:translateY(40vh) rotate(180deg) translateX(30px);opacity:0.8}90%{opacity:0.6}100%{transform:translateY(-10vh) rotate(360deg) translateX(-20px);opacity:0}}
 </style>    <!-- SEO: Canonical -->   <link rel="canonical" href="https://mereshabd.com/posts/yadon-ke-pannon-se">   <!-- SEO: Open Graph -->   <meta property="og:type" content="article">   <meta property="og:title" content="यादों के झरोखों से — गीतांजलि सक्सेना | हिंदी संस्मरण">   <meta property="og:description" content="यादों के झरोखों से — पिताजी की अनमोल विरासत और परिवार की यादें। गीतांजलि सक्सेना का भावपूर्ण हिंदी संस्मरण। Family tribute in Hindi.">   <meta property="og:url" content="https://mereshabd.com/posts/yadon-ke-pannon-se">   <meta property="og:image" content="https://mereshabd.com/images/author.jpg">   <meta property="og:image:width" content="800">   <meta property="og:image:height" content="600">   <meta property="og:site_name" content="मेरे शब्द | Gitanjali Saxena">   <meta property="og:locale" content="hi_IN">   <!-- SEO: Twitter Card -->   <meta name="twitter:card" content="summary_large_image">   <meta name="twitter:title" content="यादों के झरोखों से — गीतांजलि सक्सेना | हिंदी संस्मरण">   <meta name="twitter:description" content="यादों के झरोखों से — पिताजी की अनमोल विरासत और परिवार की यादें। गीतांजलि सक्सेना का भावपूर्ण हिंदी संस्मरण। Family tribute in Hindi.">   <meta name="twitter:image" content="https://mereshabd.com/images/author.jpg">   <script type="application/ld+json">{"@context":"https://schema.org","@type":"Article","headline":"यादों के झरोखों से — गीतांजलि सक्सेना | हिंदी संस्मरण","description":"पिताजी की अनमोल विरासत — परिवार के सभी सदस्यों की यादें और श्रद्धांजलि। गीतांजलि सक्सेना का भावपूर्ण हिंदी संस्मरण। Family tribute in Hindi.","url":"https://mereshabd.com/posts/yadon-ke-pannon-se","inLanguage":"hi","author":{"@type":"Person","name":"Gitanjali Saxena","url":"https://mereshabd.com/about"},"publisher":{"@type":"Person","name":"Gitanjali Saxena","url":"https://mereshabd.com"},"image":"https://mereshabd.com/images/author.jpg","mainEntityOfPage":{"@type":"WebPage","@id":"https://mereshabd.com/posts/yadon-ke-pannon-se"}}</script> </head> <body> <nav id="mainNav">   <a href="../index.html" class="nav-logo">     <img src="../images/logo.png" alt="मेरे शब्द">   </a>   <div class="nav-overlay" id="navOverlay"></div> <button class="nav-hamburger" id="navHamburger" aria-label="Menu">   <span></span><span></span><span></span> </button>   <ul class="nav-links">     <li><a href="../index.html">होम <span class="nav-en">Home</span></a></li>     <li><a href="../about.html" class="hide-sm">परिचय <span class="nav-en">About</span></a></li>     <li><a href="../archive.html">रचनाएं <span class="nav-en">Works</span></a></li>     <li><a href="../gallery.html" class="hide-sm">गैलरी <span class="nav-en">Gallery</span></a></li>     <li><a href="../contact.html" class="hide-sm">संपर्क <span class="nav-en">Connect</span></a></li>     <li><a href="../archive.html" class="nav-cta">रचनाएं देखें</a></li>   </ul> </nav> <section class="post-hero">
   <div class="ph-bg"></div>
